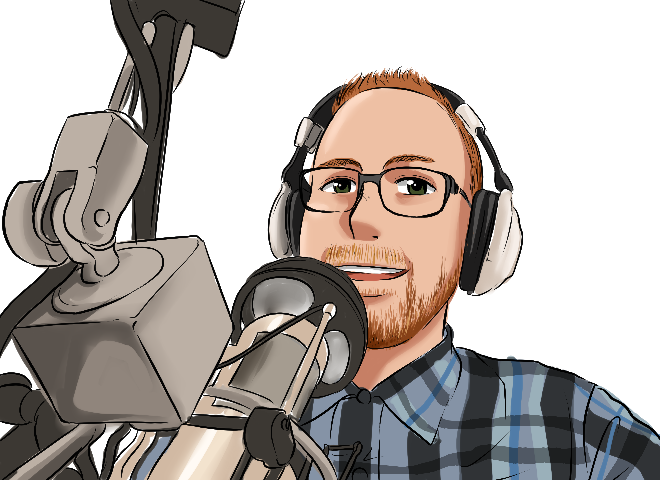
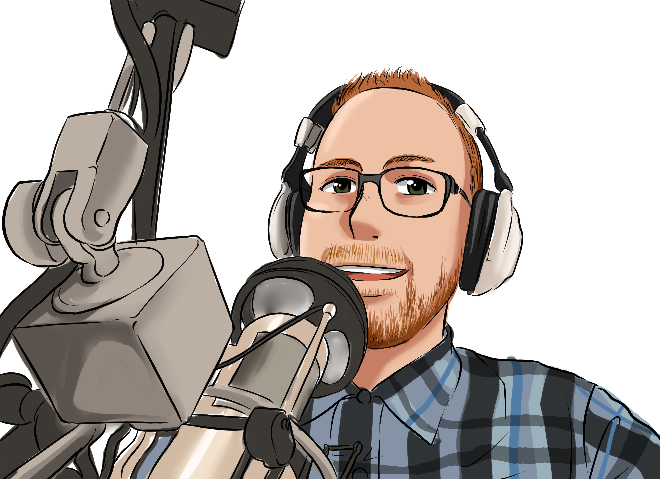
changed picture back :)

diff --git a/index.html b/index.html
@@ -23,7 +23,7 @@ This content will be surrounded by a 1 pixel wide black solid line
 <h3 style="color:royalblue;">This is a royalblue heading</h3>
 <h3 style="color:blue;">This is a blue heading</h3>
 
-<img src="img/andreas-mic.png" alt="Andreas Mic Pic" height="100%" width="100%" />
+<img src="img/andreas-mic.png" alt="Andreas Mic Pic" height="20%" width="20%" />
 <h2 style="color:red;">Andreas remember to save and commit all the f***ing time so you have a history of the code. Otherwise you will forget what you did!</h2>
 
 </body>
